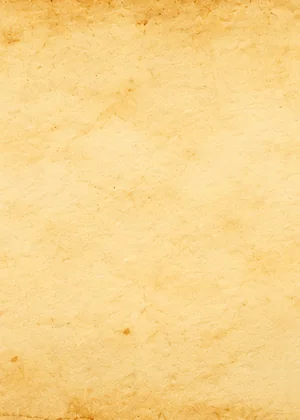
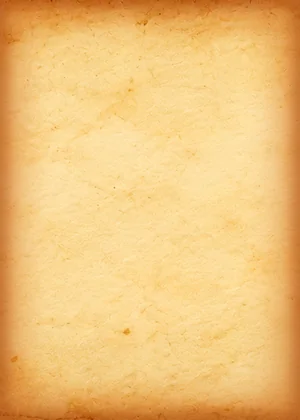
Infernal: fronts and back share one browned parchment edge; no frame lines on the fronts

Changed region(s): [[0.0, 0.0, 1.0, 1.0]]

diff --git a/oh.css b/oh.css
@@ -1723,10 +1723,10 @@ body.suits-infernal .opt-row-colours { display: none; }   /* Infernal suits have
 
 /* ===== The Infernal set is printed on parchment, with woodcut court figures (img/inf-*.webp) ===== */
 body.suits-infernal .card:not(.back) {
-  background: #e8cc93 url("img/parchment-card.webp") center / 100% 100% no-repeat;
+  background: #e8cc93 url("img/parchment-card.webp?v=2") center / 100% 100% no-repeat;
   border-color: #8f6a3c;
 }
-.card .inf-court { position: absolute; inset: 3% 4%; border: 1px solid rgba(110, 70, 30, 0.6); border-radius: 3px; overflow: hidden; pointer-events: none; }
+.card .inf-court { position: absolute; inset: 3% 4%; overflow: hidden; pointer-events: none; }   /* no frame line: the art sits on the parchment */
 .card .inf-court img { position: absolute; right: 0; top: 0; height: 100%; width: auto; max-width: none; }   /* top of the frame to the bottom */
 .card.inf-court-card .corner { z-index: 2; text-shadow: 0 0 2px #f1dcae, 0 0 4px #f1dcae, 0 0 6px #f1dcae; }
 .card.inf-court-card .corner.bottom { display: none; }
@@ -1741,11 +1741,10 @@ body.suits-infernal .card:not(.back) .corner { text-shadow: 0 0 2px #f1dcae, 0 0
 .card.inf-ace-flames .inf-court img { left: 6%; width: 92%; top: 2%; height: 96%; }
 /* Infernal 2-10: the drawn pip pattern covers the whole card (it leaves the top-left free for the index) */
 .card.inf-num .inf-court { inset: 0; border: none; border-radius: 0; }
-.card.inf-num .inf-court::after { content: ""; position: absolute; inset: 3% 4%; border: 1px solid rgba(110, 70, 30, 0.6); border-radius: 3px; }
 .card.inf-num .inf-court img { left: 0; top: 0; right: auto; width: 100%; height: 100%; object-fit: fill; transform: none; }
 /* the trump coin's drawn symbol sits dead centre (no text baseline) */
 .trump-coin .coin-suit:has(.sg) { display: flex; align-items: center; justify-content: center; line-height: 0; }
 .trump-coin .coin-suit .sg { vertical-align: 0; display: block; }
 /* the Infernal back (its parchment edge is part of the picture) */
-body.back-infernal .card.back { background: transparent url("back-infernal.webp?v=3") center / 100% 100% no-repeat; border-color: transparent; }
-.seg-backs .bk-infernal { background: transparent url("back-infernal.webp?v=3") center / 100% 100% no-repeat !important; }
+body.back-infernal .card.back { background: transparent url("back-infernal.webp?v=4") center / 100% 100% no-repeat; border-color: transparent; }
+.seg-backs .bk-infernal { background: transparent url("back-infernal.webp?v=4") center / 100% 100% no-repeat !important; }

diff --git a/index.html b/index.html
@@ -16,9 +16,9 @@
   <meta property="og:image" content="share.jpg">
   <meta name="twitter:card" content="summary_large_image">
   <link rel="preload" href="share.jpg" as="image" fetchpriority="low">
-  <link rel="stylesheet" href="./gw.css?v=183">
-  <link rel="stylesheet" href="./oh.css?v=183">
-  <link rel="stylesheet" href="./bv-more.css?v=183">
+  <link rel="stylesheet" href="./gw.css?v=184">
+  <link rel="stylesheet" href="./oh.css?v=184">
+  <link rel="stylesheet" href="./bv-more.css?v=184">
 </head>
 <body>
 <!-- The Infernal suits (Look & feel): drawn with <use href="#s-flame"> etc. -->
@@ -111,7 +111,7 @@
 
 <!-- SPLASH -->
 <div id="splash" role="button" tabindex="0" aria-label="Click to start">
-  <img src="logo-ohhell.webp?v=183" alt="Oh Hell! Extended" class="splash-title">
+  <img src="logo-ohhell.webp?v=184" alt="Oh Hell! Extended" class="splash-title">
   <div class="logo-subtitle splash-subtitle">Oh Hell! with a trick up its sleeve</div>
   <img src="bugvictim.svg" alt="BugVictim" class="splash-logo">
   <div class="splash-credit">© BugVictim 2026</div>
@@ -174,7 +174,7 @@
 
     <div class="start-panel-header">
       <div class="start-header">
-        <img src="logo-ohhell.webp?v=183" alt="Oh Hell! Extended" class="start-title-img">
+        <img src="logo-ohhell.webp?v=184" alt="Oh Hell! Extended" class="start-title-img">
       </div>
 
       <div class="start-logo-row start-credit-line">© BugVictim 2026</div>
@@ -452,12 +452,12 @@
   </div>
 </div>
 
-  <script src="./oh-core.js?v=183"></script>
-  <script src="./oh-tutorial.js?v=183"></script>
-  <script src="./oh-ai.js?v=183"></script>
-  <script src="./bv-more.js?v=183"></script>
-  <script src="./oh-souls.js?v=183"></script>
-  <script src="./oh-app.js?v=183"></script>
+  <script src="./oh-core.js?v=184"></script>
+  <script src="./oh-tutorial.js?v=184"></script>
+  <script src="./oh-ai.js?v=184"></script>
+  <script src="./bv-more.js?v=184"></script>
+  <script src="./oh-souls.js?v=184"></script>
+  <script src="./oh-app.js?v=184"></script>
   <script>
     BVMore.init({ key: "oh-hell-extended", title: "Oh Hell! Extended", others: ["drakeharbour", "german-whist", "artifact"],
       shareText: "Bid your tricks, then win exactly that many. Play Oh Hell! Extended.",
